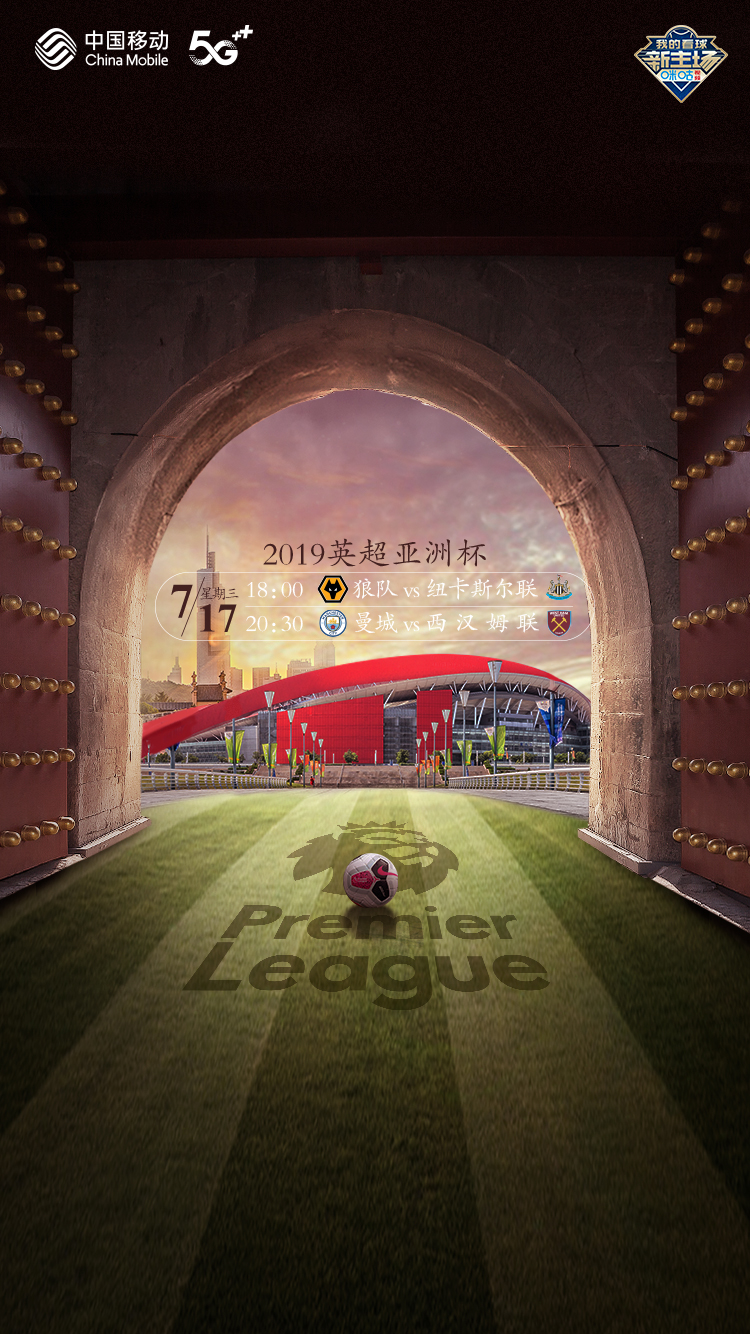
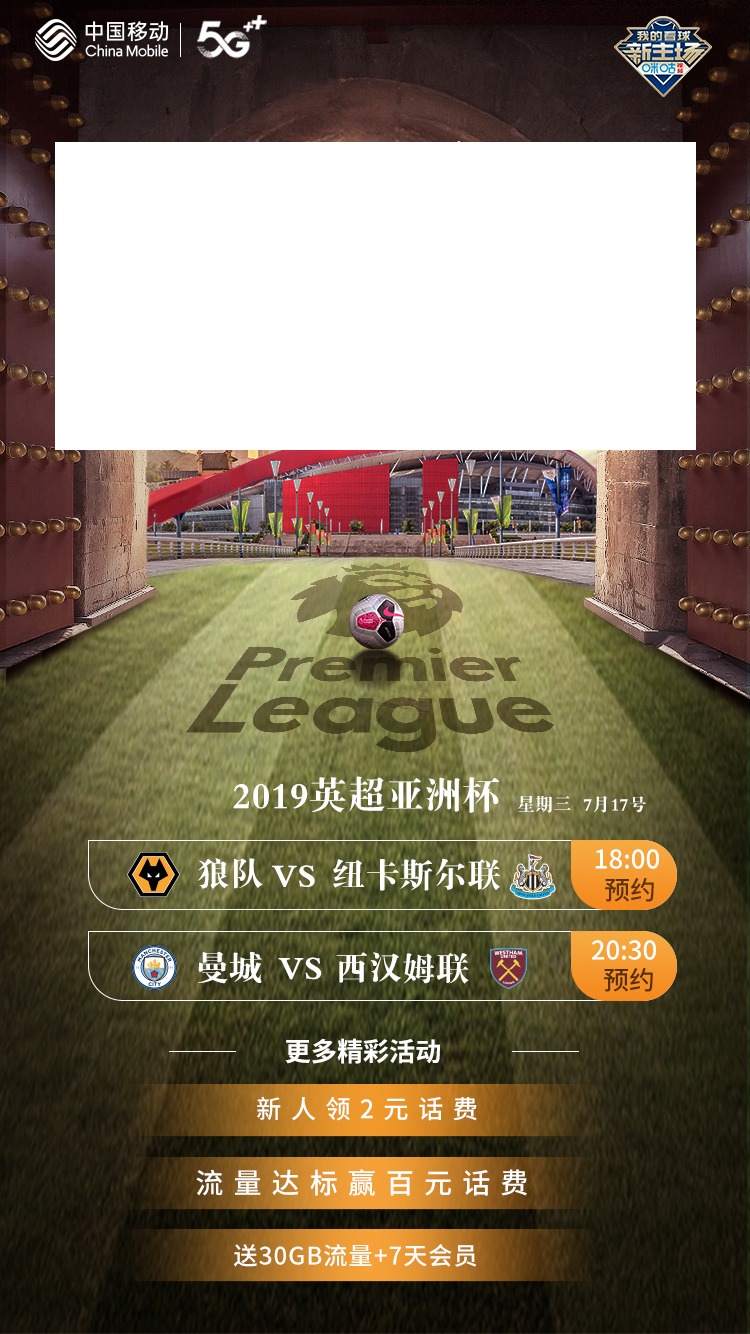
22

diff --git a/football/index.html b/football/index.html
@@ -23,13 +23,11 @@
 				border:0 none;
 			}
 			.shiping{
-				width:8.2rem;
-				height:4.8rem;
+				width:8.55rem;
+				height:4.15rem;
 				position: absolute;
-				left:0.88rem;
-				top:1.8rem;
-				background: black;
-				
+				left:0.72rem;
+				top:1.8533rem;				
 			}
 			.shiping video{		
 				width:100%;
@@ -37,23 +35,19 @@
 				display: block;
 				object-fit: fill;
 			}
-			.huodong{
-				width:100%;
-				position: absolute;
-				left:0;
-				top:13.5rem;
-			}
 			.huodong span{
 				display: block;
-				width:100%;
-				height:1.2rem;
-				line-height: 1.2rem;
-				text-align: center;
-				background: blue;
-				color:white;
+				width:6.867rem;
+				height:0.746rem;
+				position: absolute;
+				top:14.4rem;
+				left:1.44rem;
 			}
-			.span2{
-				margin:0.2rem 0;
+			.huodong .more{
+				top:15.4rem;
+			}
+			.huodong .seven{
+				top:16.36rem;
 			}
 			.play{
 				width:1.2rem;
@@ -65,17 +59,14 @@
 			}
 			.yuyue span{
 				display: block;
-				width: 2.3rem;
-				height:0.5rem;
-				text-align: center;
-				line-height: 0.5rem;
-				color:white;
-				font-size: 14px;
-			}
-			.yuyue{
+				width: 7.893rem;
+				height:0.95rem;
 				position: absolute;
-				right:0;
-				top:7.6rem;
+				left:1.17rem;
+				top:11.2rem;
+			}
+			.yuyue .mancheng{
+				top:12.4rem;
 			}
 		</style>
 	</head>
@@ -83,19 +74,21 @@
 		<div class='toutu'>
 			<img src="img/banner.jpg" alt="" />
 			<div class="shiping">
-				<video src="https://1046927100.github.io/pero/football/1.mp4" x5-playsinline playsinline  webkit-playsinline x-webkit-airplay="allow" preload="true" loop poster="" id='videoMain'></video>
+				<video id="videoMain" src="http://117.131.18.44/depository_sjq/asset/zhengshi/1003/701/414/1003701414/media/1003701414_1016121295_455.mp4" x5-playsinline playsinline  webkit-playsinline x-webkit-airplay="allow" preload="true" loop poster="" >
+					
+				</video>
 				<div class='play'>
 					<img src="img/play.png" alt="" />
 				</div>
 			</div>
 			<div class='huodong'>
-				<span class='seven'>30GB+7天会员</span>
-				<span class='span2'>新人领话费</span>
-				<span class='more'>流量达标送大礼</span>
+				<span class='span2'></span>
+				<span class='more'></span>
+				<span class='seven'></span>
 			</div>
 			<div class='yuyue'>
-				<span class='wolf'>去预约>>></span>
-				<span class='mancheng'>去预约>>></span>
+				<span class='wolf'></span>
+				<span class='mancheng'></span>
 			</div>
 		</div>
 	</body>
